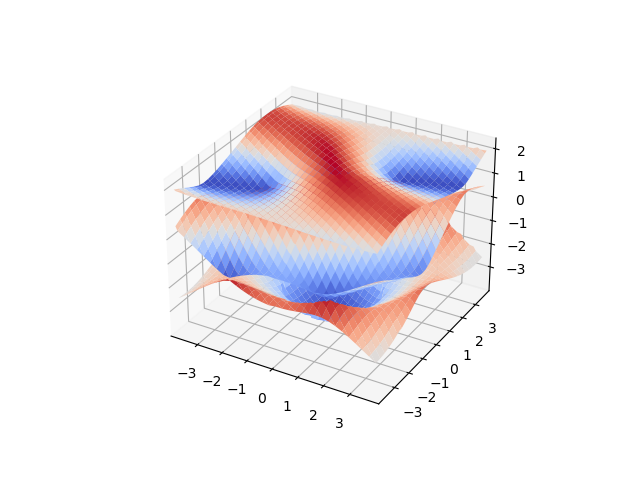
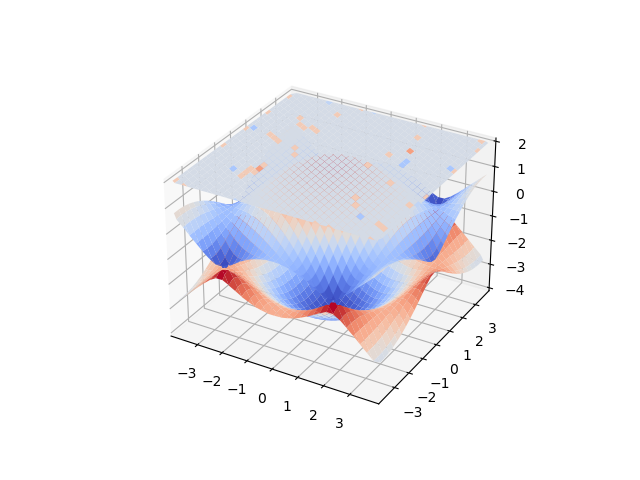
Set gauge and allowed for complex blochvectors

diff --git a/tight_binding/solver.py b/tight_binding/solver.py
@@ -30,7 +30,7 @@ class static_bandstructure2D:
         ky = alpha_1*self.b_1[1] + alpha_2*self.b_2[1]
         energies = np.zeros(alpha_1.shape + (self.bands,), dtype='float')
         blochvectors = np.zeros(alpha_1.shape + (self.bands,self.bands), 
-                                dtype='float')
+                                dtype='complex')
         
         # Computing the right values for these grids
         for i in range(alpha_1.shape[0]):
@@ -38,6 +38,7 @@ class static_bandstructure2D:
                 k = np.array([kx[i,j], ky[i,j]])
                 H = self.hamiltonian(k)
                 eigenvalues, eigenvectors = np.linalg.eig(H)
+                eigenvalues = np.real(eigenvalues) # H is hermitian
                 ind = np.argsort(eigenvalues) #sorting the energies
                 eigenvalues = eigenvalues[ind]
                 eigenvectors = eigenvectors[:,ind]
@@ -53,53 +54,110 @@ class static_bandstructure2D:
         self.energies = energies
         self.blochvectors = blochvectors
     
-    def plot_gauge(self, band_index, save):
-        """Visualises the gauge continuity over the BZ."""
-        gauge = np.zeros(self.alpha_1.shape, dtype='float')
-        for i in range(gauge.shape[0]):
-            for j in range(gauge.shape[1]):
-                gauge_indicator = (
-                    np.inner(self.blochvectors[i,j,band_index], 
-                            self.blochvectors[(i+1) % self.blochvectors.shape[0], 
-                                              j, 
-                                              band_index])
-                    + np.inner(self.blochvectors[i,j,band_index], 
-                            self.blochvectors[(i-1) % self.blochvectors.shape[0], 
-                                              j, 
-                                              band_index])
-                    + np.inner(self.blochvectors[i,j,band_index], 
-                            self.blochvectors[i, 
-                                              (j+1) % self.blochvectors.shape[1], 
-                                              band_index])
-                    + np.inner(self.blochvectors[i,j,band_index], 
-                            self.blochvectors[i, 
-                                              (j-1) % self.blochvectors.shape[1], 
-                                              band_index])) / 4
-                gauge[i,j] = gauge_indicator
+    def set_gauge(self):
+        for band in range(self.bands):
+            for i in range(self.blochvectors.shape[0]):
+                for j in range(self.blochvectors.shape[1]):
+                    if i == 0 and j == 0:
+                        pass
+                    elif i==0 and np.inner(self.blochvectors[i,j,band], 
+                                           self.blochvectors[i,j-1,band]) < 0:
+                        self.blochvectors[i,j,band] = -self.blochvectors[i,j,
+                                                                         band]
+                    elif np.inner(self.blochvectors[i,j,band], 
+                                  self.blochvectors[i-1,j,band]) < 0:
+                        self.blochvectors[i,j,band] = -self.blochvectors[i,j,
+                                                                         band]
+    
+    def plot_blochvectors(self,
+                          band,
+                          component,
+                          save,
+                          kxmin=-np.pi,
+                          kxmax=np.pi,
+                          kymin=-np.pi,
+                          kymax=np.pi):
+        "Plots one component of the blochvectors."
+        # Getting the correct region
+        span = False
+        reciprocal_vectors = 0
+        while not span:
+            reciprocal_vectors += 1
+            beta_1 = np.linspace(-reciprocal_vectors,
+                                 reciprocal_vectors,
+                                 2*reciprocal_vectors*self.n)
+            beta_2 = np.linspace(-reciprocal_vectors,
+                                 reciprocal_vectors,
+                                 2*reciprocal_vectors*self.n)
+            beta_1, beta_2 = np.meshgrid(beta_1, beta_2, indexing='ij')
+            kx = beta_1*self.b_1[0] + beta_2*self.b_2[0]
+            ky = beta_1*self.b_1[1] + beta_2*self.b_2[1]
+            span = ((np.min(kx) < kxmin) and (np.max(kx) > kxmax) 
+                    and (np.min(ky) < kymin) and (np.max(ky) > kymax))
+            
+        # Specifying the indices of the required vectors in self.blochvectors
+        i = (self.n*(beta_1%1)).astype(int)
+        j = (self.n*(beta_2%1)).astype(int)
+        blochvectors_expanded = self.blochvectors[i,j]
+        blochvectors = np.transpose(blochvectors_expanded, (2,3,0,1))
         
-                    
+        # Masking the data we do not want to plot
+        blochvectors[:,
+                     :,
+                     (kx>kxmax) | (kx<kxmin) | (ky>kymax) | (ky<kymin)] = np.nan
+        
         fig, ax = plt.subplots(subplot_kw={"projection": "3d"})
         # Plot the surface.
-        surf = ax.plot_surface(self.kx, self.ky, gauge, cmap=cm.coolwarm,
-                            linewidth=0, antialiased=True)
+        surf = ax.plot_surface(kx, ky, blochvectors[band,component], 
+                               cmap=cm.coolwarm, linewidth=0)
+        ax.set_xlim(kxmin,kxmax)
+        ax.set_ylim(kymin,kymax)
         plt.savefig(save)
-        plt.show()        
-                                              
+        plt.show()  
 
-
-
-    def plot_bandstructure(self, save):
-        "Plots and saves the bandstructure." 
-        E = np.transpose(self.energies, (2,0,1))
+    def plot_bandstructure(self, 
+                           save, 
+                           kxmin=-np.pi, 
+                           kxmax=np.pi, 
+                           kymin=-np.pi, 
+                           kymax=np.pi):
+        "Plots and saves the bandstructure."
+        # Getting the correct region
+        span = False
+        reciprocal_vectors = 0
+        while not span:
+            reciprocal_vectors += 1
+            beta_1 = np.linspace(-reciprocal_vectors,
+                                 reciprocal_vectors,
+                                 2*reciprocal_vectors*self.n)
+            beta_2 = np.linspace(-reciprocal_vectors,
+                                 reciprocal_vectors,
+                                 2*reciprocal_vectors*self.n)
+            beta_1, beta_2 = np.meshgrid(beta_1, beta_2, indexing='ij')
+            kx = beta_1*self.b_1[0] + beta_2*self.b_2[0]
+            ky = beta_1*self.b_1[1] + beta_2*self.b_2[1]
+            span = ((np.min(kx) < kxmin) and (np.max(kx) > kxmax) 
+                    and (np.min(ky) < kymin) and (np.max(ky) > kymax))
+            
+        # Specifying the indices of the required energies in self.energies
+        i = (self.n*(beta_1%1)).astype(int)
+        j = (self.n*(beta_2%1)).astype(int)
+        energies_expanded = self.energies[i,j]
+        E = np.transpose(energies_expanded, (2,0,1))
+        
+        # Masking the data we do not want to plot
+        E[:, (kx>kxmax) | (kx<kxmin) | (ky>kymax) | (ky<kymin)] = np.nan
         
         fig, ax = plt.subplots(subplot_kw={"projection": "3d"})
         # Plot the surface.
-        surf1 = ax.plot_surface(self.kx, self.ky, E[0], cmap=cm.coolwarm,
-                            linewidth=0, antialiased=True)
-        surf2 = ax.plot_surface(self.kx, self.ky, E[1], cmap=cm.coolwarm,
-                            linewidth=0, antialiased=True)
-        surf3 = ax.plot_surface(self.kx, self.ky, E[2], cmap=cm.coolwarm,
-                            linewidth=0, antialiased=True)
+        surf1 = ax.plot_surface(kx, ky, E[0], cmap=cm.coolwarm,
+                            linewidth=0)
+        surf2 = ax.plot_surface(kx, ky, E[1], cmap=cm.coolwarm,
+                            linewidth=0)
+        surf3 = ax.plot_surface(kx, ky, E[2], cmap=cm.coolwarm,
+                            linewidth=0)
+        ax.set_xlim(kxmin,kxmax)
+        ax.set_ylim(kymin,kymax)
         plt.savefig(save)
         plt.show()
 
@@ -136,7 +194,7 @@ class driven_bandstructure2D:
         ky = alpha_1*self.b_1[1] + alpha_2*self.b_2[1]
         energies = np.zeros(alpha_1.shape + (self.bands,), dtype='float')
         blochvectors = np.zeros(alpha_1.shape + (self.bands,self.bands), 
-                                dtype='float')
+                                dtype='complex')
         
         # Computing the right values for these grids
         for i in range(alpha_1.shape[0]):
@@ -146,7 +204,7 @@ class driven_bandstructure2D:
                     return self.hamiltonian(k,t)
                 U = compute_time_evolution_operator(H, self.T, self.dt)
                 eigenvalues, eigenvectors = np.linalg.eig(U)
-                eigenexp = np.real(np.log(eigenvalues) / (-1j*self.T))
+                eigenexp = np.real(np.log(eigenvalues) / (-1j))
                 # converting to the right quasienergy range
                 eigenexp = (eigenexp 
                             + 2*np.pi
@@ -167,42 +225,68 @@ class driven_bandstructure2D:
         self.ky = ky
         self.energies = energies
         self.blochvectors = blochvectors
-    
-    def plot_gauge(self, band_index, save):
-        """Visualises the gauge continuity over the BZ."""
-        gauge = np.zeros(self.alpha_1.shape, dtype='float')
-        for i in range(gauge.shape[0]):
-            for j in range(gauge.shape[1]):
-                gauge_indicator = (
-                    np.inner(self.blochvectors[i,j,band_index], 
-                            self.blochvectors[(i+1) % self.blochvectors.shape[0], 
-                                              j, 
-                                              band_index])
-                    + np.inner(self.blochvectors[i,j,band_index], 
-                            self.blochvectors[(i-1) % self.blochvectors.shape[0], 
-                                              j, 
-                                              band_index])
-                    + np.inner(self.blochvectors[i,j,band_index], 
-                            self.blochvectors[i, 
-                                              (j+1) % self.blochvectors.shape[1], 
-                                              band_index])
-                    + np.inner(self.blochvectors[i,j,band_index], 
-                            self.blochvectors[i, 
-                                              (j-1) % self.blochvectors.shape[1], 
-                                              band_index])) / 4
-                gauge[i,j] = gauge_indicator
+
+    def set_gauge(self):
+        for band in range(self.bands):
+            for i in range(self.blochvectors.shape[0]):
+                for j in range(self.blochvectors.shape[1]):
+                    if i == 0 and j == 0:
+                        pass
+                    elif i==0 and np.inner(self.blochvectors[i,j,band], 
+                                           self.blochvectors[i,j-1,band]) < 0:
+                        self.blochvectors[i,j,band] = -self.blochvectors[i,j,
+                                                                         band]
+                    elif np.inner(self.blochvectors[i,j,band], 
+                                  self.blochvectors[i-1,j,band]) < 0:
+                        self.blochvectors[i,j,band] = -self.blochvectors[i,j,
+                                                                         band]
+
+    def plot_blochvectors(self,
+                          band,
+                          component,
+                          save,
+                          kxmin=-np.pi,
+                          kxmax=np.pi,
+                          kymin=-np.pi,
+                          kymax=np.pi):
+        "Plots one component of the blochvectors."
+        # Getting the correct region
+        span = False
+        reciprocal_vectors = 0
+        while not span:
+            reciprocal_vectors += 1
+            beta_1 = np.linspace(-reciprocal_vectors,
+                                 reciprocal_vectors,
+                                 2*reciprocal_vectors*self.n)
+            beta_2 = np.linspace(-reciprocal_vectors,
+                                 reciprocal_vectors,
+                                 2*reciprocal_vectors*self.n)
+            beta_1, beta_2 = np.meshgrid(beta_1, beta_2, indexing='ij')
+            kx = beta_1*self.b_1[0] + beta_2*self.b_2[0]
+            ky = beta_1*self.b_1[1] + beta_2*self.b_2[1]
+            span = ((np.min(kx) < kxmin) and (np.max(kx) > kxmax) 
+                    and (np.min(ky) < kymin) and (np.max(ky) > kymax))
+            
+        # Specifying the indices of the required vectors in self.blochvectors
+        i = (self.n*(beta_1%1)).astype(int)
+        j = (self.n*(beta_2%1)).astype(int)
+        blochvectors_expanded = self.blochvectors[i,j]
+        blochvectors = np.transpose(blochvectors_expanded, (2,3,0,1))
         
-                    
+        # Masking the data we do not want to plot
+        blochvectors[:,
+                     :,
+                     (kx>kxmax) | (kx<kxmin) | (ky>kymax) | (ky<kymin)] = np.nan
+        
         fig, ax = plt.subplots(subplot_kw={"projection": "3d"})
         # Plot the surface.
-        surf = ax.plot_surface(self.kx, self.ky, gauge, cmap=cm.coolwarm,
-                            linewidth=0, antialiased=True)
+        surf = ax.plot_surface(kx, ky, blochvectors[band,component], 
+                               cmap=cm.coolwarm, linewidth=0)
+        ax.set_xlim(kxmin,kxmax)
+        ax.set_ylim(kymin,kymax)
         plt.savefig(save)
-        plt.show()        
+        plt.show()       
                                               
-
-
-
     def plot_bandstructure(self, 
                            save, 
                            kxmin=-np.pi, 

diff --git a/execute.py b/execute.py
@@ -1,19 +1,12 @@
-from tight_binding.solver import driven_bandstructure2D
-from tight_binding.hamiltonians import driven_bloch_hamiltonian_kagome
+from tight_binding.solver import static_bandstructure2D
+from tight_binding.hamiltonians import static_bloch_hamiltonian_kagome
 import numpy as np
 
-def A(t):
-    return np.array([2*np.cos(6*t), 0])
-
-H = driven_bloch_hamiltonian_kagome(-0.5,1,-0.5,-1,1,A)
-bs = driven_bandstructure2D(H, 
-                            2*np.pi / 6, 
-                            0.01, 
+H = static_bloch_hamiltonian_kagome(0,0,0,-1,1)
+bs = static_bandstructure2D(H,
                             np.array([1,0]),
-                            np.array([0.5,0.5*3**0.5]), 
-                            50,
-                            3,
-                            -1.25*np.pi)
-
+                            np.array([0.5, 0.5*3**0.5]),
+                            500,
+                            3)
 bs.compute_bandstructure()
 bs.plot_bandstructure('test.png', -1.25*np.pi, 1.25*np.pi, -1.25*np.pi, 1.25*np.pi)
